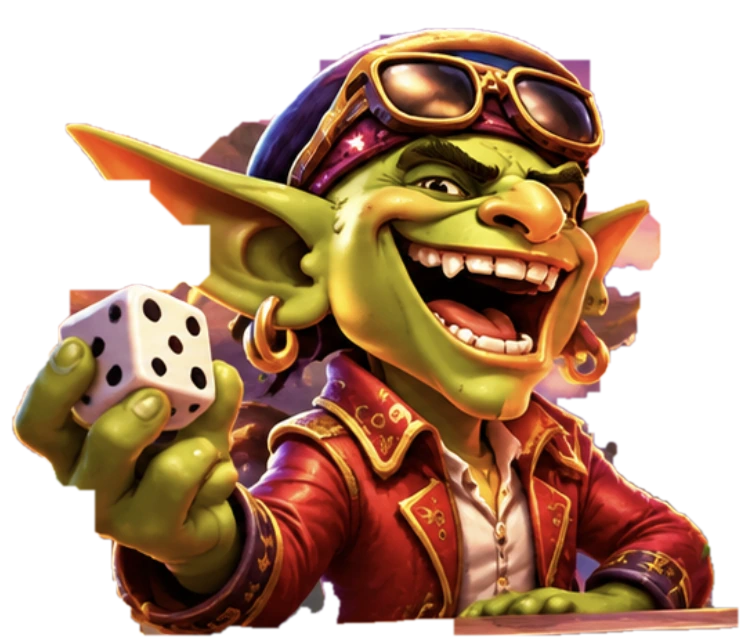
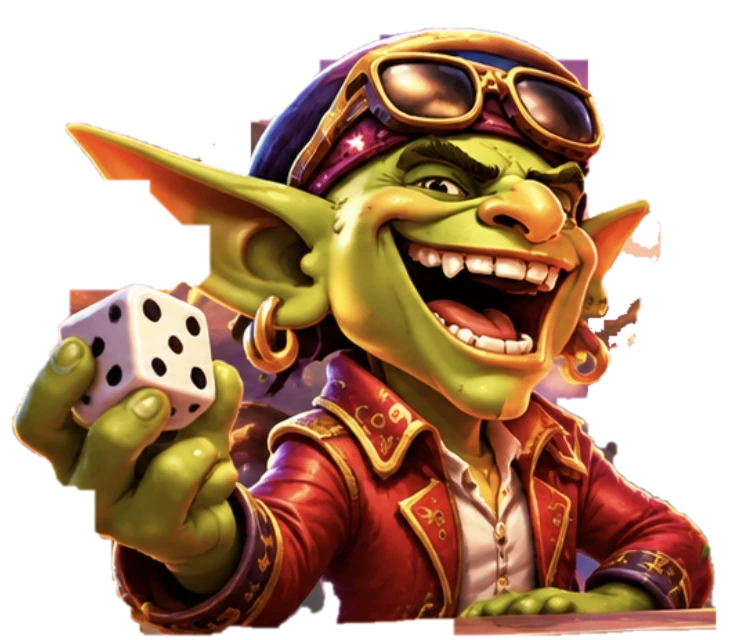
Accueil : le gobelin est assis derrière une table de jeu qui cache le bas de son corps
Claude-Session: https://claude.ai/code/session_01LJhuYdyaraPF5Tb8RkLgiq

diff --git a/app/page.tsx b/app/page.tsx
@@ -173,6 +173,13 @@ export default function Home() {
       <button className="hp-gear" onClick={() => open("settings")} aria-label="Paramètres"><img src={`${A}ico-gear.webp`} alt="" /></button>
     </>
   );
+  // le gobelin est assis derrière une table de jeu : la table, au premier plan, cache le bas de son corps
+  const GoblinAtTable = (
+    <>
+      <img className="goblin" src={goblin} alt="Le gobelin, mascotte de Perudo" draggable={false} />
+      <img className="goblin-table" src={`${A}goblin-table.webp`} alt="" draggable={false} />
+    </>
+  );
   const Card = (c: (typeof cards)[number], style?: CSSProperties) => (
     <button key={c.id} className={`hcard hcard-${c.id}`} style={style} onClick={c.onClick}>
       <img src={`${A}${c.img}.webp`} alt="" draggable={false} />
@@ -196,7 +203,7 @@ export default function Home() {
           <div className="stage" style={{ width: STAGE_W, height: STAGE_H, transform: `translateX(-50%) scale(${s})` }}>
             <div className="fx-motes" aria-hidden="true">{Array.from({ length: 22 }, (_, i) => <span key={i} style={{ left: `${(i * 37) % 100}%`, animationDelay: `${(i * 1.3) % 9}s`, animationDuration: `${9 + (i % 5) * 2}s` }} />)}</div>
 
-            <img className="goblin" src={goblin} alt="Le gobelin, mascotte de Perudo" style={at(90, 300, 740, 640)} draggable={false} />
+            <div className="goblin-wrap" style={at(90, 300, 740, 640)}>{GoblinAtTable}</div>
             {appearance.tagline && <div className="goblin-bubble" style={at(372, 236)}>{appearance.tagline}</div>}
 
             <img className="hdie die-float" src={`${A}die-a.webp`} alt="" style={at(982, 12, 92, 89)} />
@@ -219,7 +226,7 @@ export default function Home() {
           <div className="m-top">{ProfileBadge}<div className="m-top-right">{Wallet}<button className="hp-gear hp-friends-m" onClick={() => open("friends")} aria-label="Amis"><span>👥</span>{social.unread > 0 && <i className="hp-badge">{social.unread}</i>}</button><button className="hp-gear" onClick={() => open("settings")} aria-label="Paramètres"><img src={`${A}ico-gear.webp`} alt="" /></button></div></div>
           <div className="m-logo"><Logo image={appearance.logo} shine={!calm} /><img className="hdie die-float m-die" src={`${A}die-a.webp`} alt="" /></div>
           <div className="m-middle">
-            <img className="goblin m-goblin" src={goblin} alt="Le gobelin, mascotte de Perudo" draggable={false} />
+            <div className="goblin-wrap m-goblin">{GoblinAtTable}</div>
             <button className="play-sign m-play" onClick={() => { unlockAudio(); sounds.shake(); setMenu("play"); }}>
               <img src={`${A}play.webp`} alt="" draggable={false} />
               <span>Jouer</span>

diff --git a/app/globals.css b/app/globals.css
@@ -889,6 +889,10 @@ input[type="number"] { max-width: 160px; }
 }
 
 /* gobelin : respiration et petit balancement (discrets) */
+.goblin-wrap { pointer-events: none; }
+.goblin-wrap .goblin { position: absolute; left: 0; top: 0; width: 100%; height: auto; }
+/* table de jeu au premier plan (repère du gobelin 740 × 640) : son bord arrière passe sous la main posée */
+.goblin-table { position: absolute; left: -9.46%; top: 93.1%; width: 118.9%; height: auto; max-width: none; user-select: none; pointer-events: none; }
 .goblin { transform-origin: 55% 100%; animation: goblin-breathe 5.6s ease-in-out infinite; user-select: none; pointer-events: none; will-change: transform; }
 @keyframes goblin-breathe {
   0%, 100% { transform: scale(1, 1); }
@@ -1021,7 +1025,7 @@ input[type="number"] { max-width: 160px; }
 .m-logo .logo-wrap { width: 100%; }
 .m-die { position: absolute; width: 13%; left: 18%; top: -6%; }
 .m-middle { position: relative; z-index: 2; width: 100%; flex: 1; min-height: 190px; display: flex; align-items: flex-end; justify-content: center; }
-.m-goblin { position: absolute; left: -14vw; bottom: 46px; width: min(68vw, 360px); z-index: 0; }
+.m-goblin { position: absolute; left: -14vw; bottom: 46px; width: min(68vw, 360px); z-index: 0; aspect-ratio: 740 / 640; }
 .m-play { position: relative; z-index: 1; width: min(80vw, 420px); aspect-ratio: 749 / 249; margin-bottom: 8px; }
 .m-play span { font-size: clamp(34px, 12vw, 58px); }
 .m-cards { position: relative; z-index: 3; width: 100%; max-width: 560px; display: grid; grid-template-columns: repeat(6, 1fr); gap: 6px 4px; padding: 0 6px 12px; }

diff --git a/SUIVI.md b/SUIVI.md
@@ -63,3 +63,4 @@ Dernier état audité : commit `287f118` (en ligne sur perudo-xi.vercel.app).
 - Logo : l'image ne contient que PERUDO. Le « TOMDA » venait du badge de profil qui recouvrait le logo sur écran bas → les infos du haut se calent aux bords et rétrécissent dès qu'elles toucheraient le logo ; en paysage téléphone : menus du haut en icônes (doublons masqués), bulle masquée.
 - Paysage téléphone : l'accueil garde la scène (plus de colonne à défiler). Portrait : colonne, lien invité raccourci.
 - Vérifié au simulateur : 360×740, 390×844, 430×932, 667×375, 740×360, 844×390, 932×430, 1024×600, 1024×768, 1280×1024, 1366×768, 1920×1080, 2348×1284, 2560×1080, 3840×2160. Aucun bouton hors écran, pas de défilement horizontal. Tag de retour : `before-home-bg`.
+- Gobelin de l'accueil (05/11/2026) : il est désormais assis derrière une table de jeu du casino (`public/art/home/goblin-table.webp`, faite à partir de la table du Casino du Gobelin + ombre au sol + un dé sur le tapis). Sa main repose sur le rebord, le bas du corps est caché. Couches : fond → gobelin → table → boutons. Le gobelin et la table bougent ensemble (même repère), sur ordinateur comme en colonne téléphone. Restes de l'ancien fond autour du gobelin (taches roses derrière les oreilles, planche à droite) effacés de `goblin.webp`.
